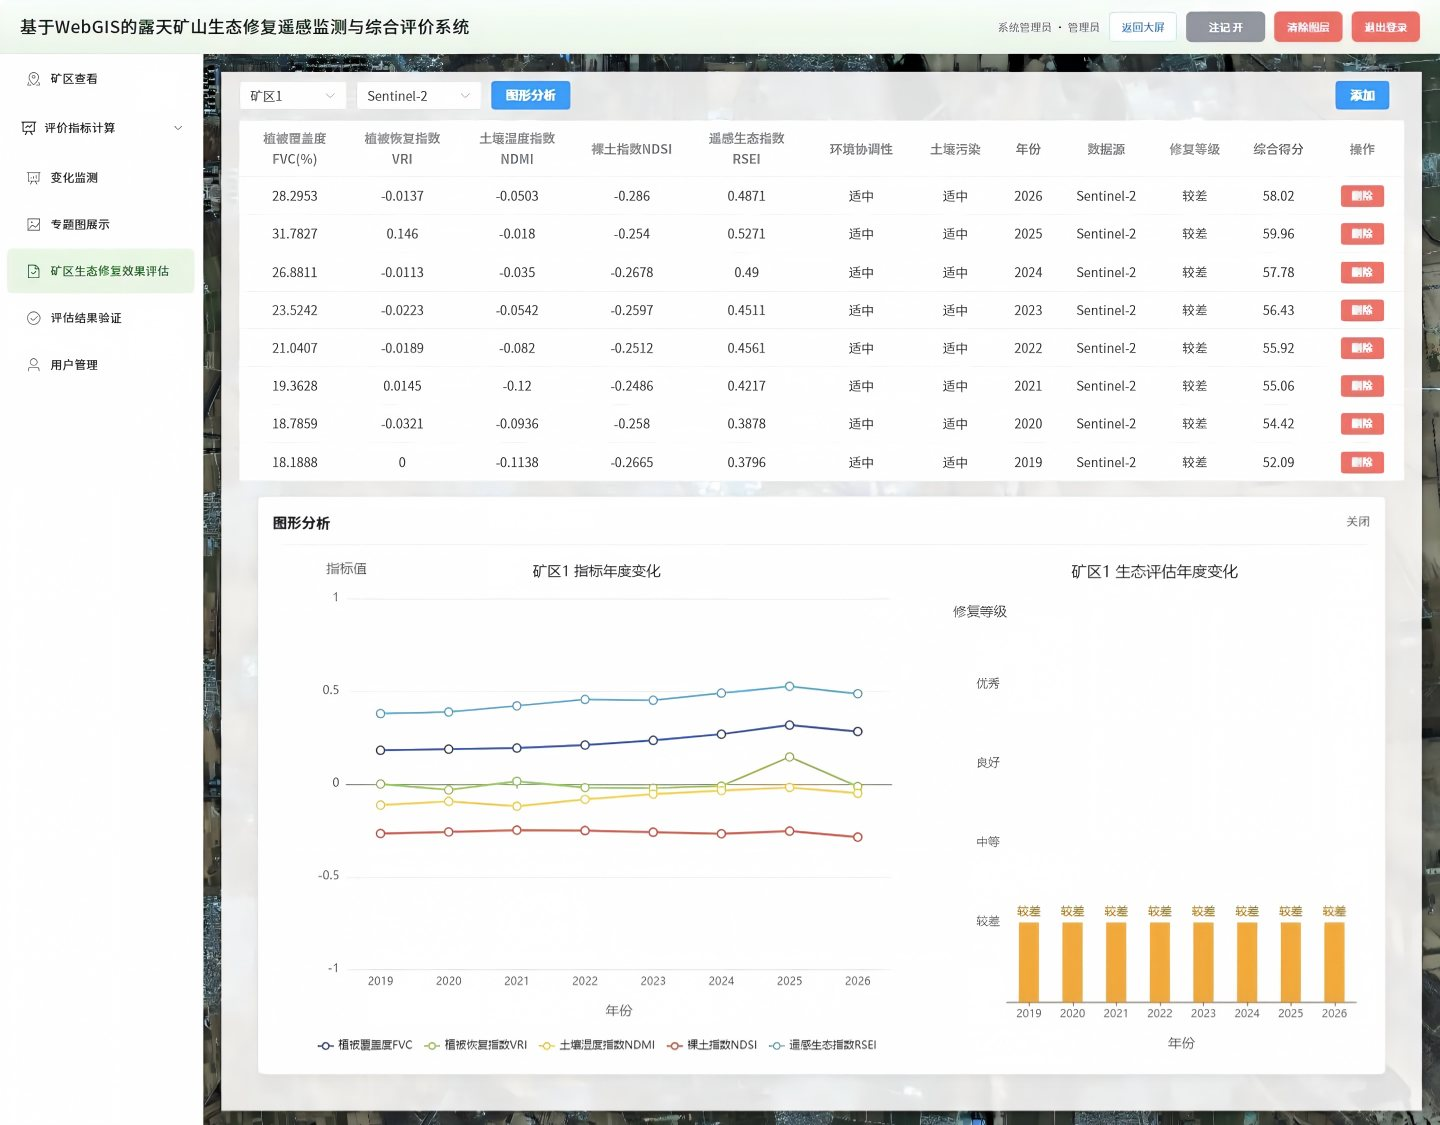
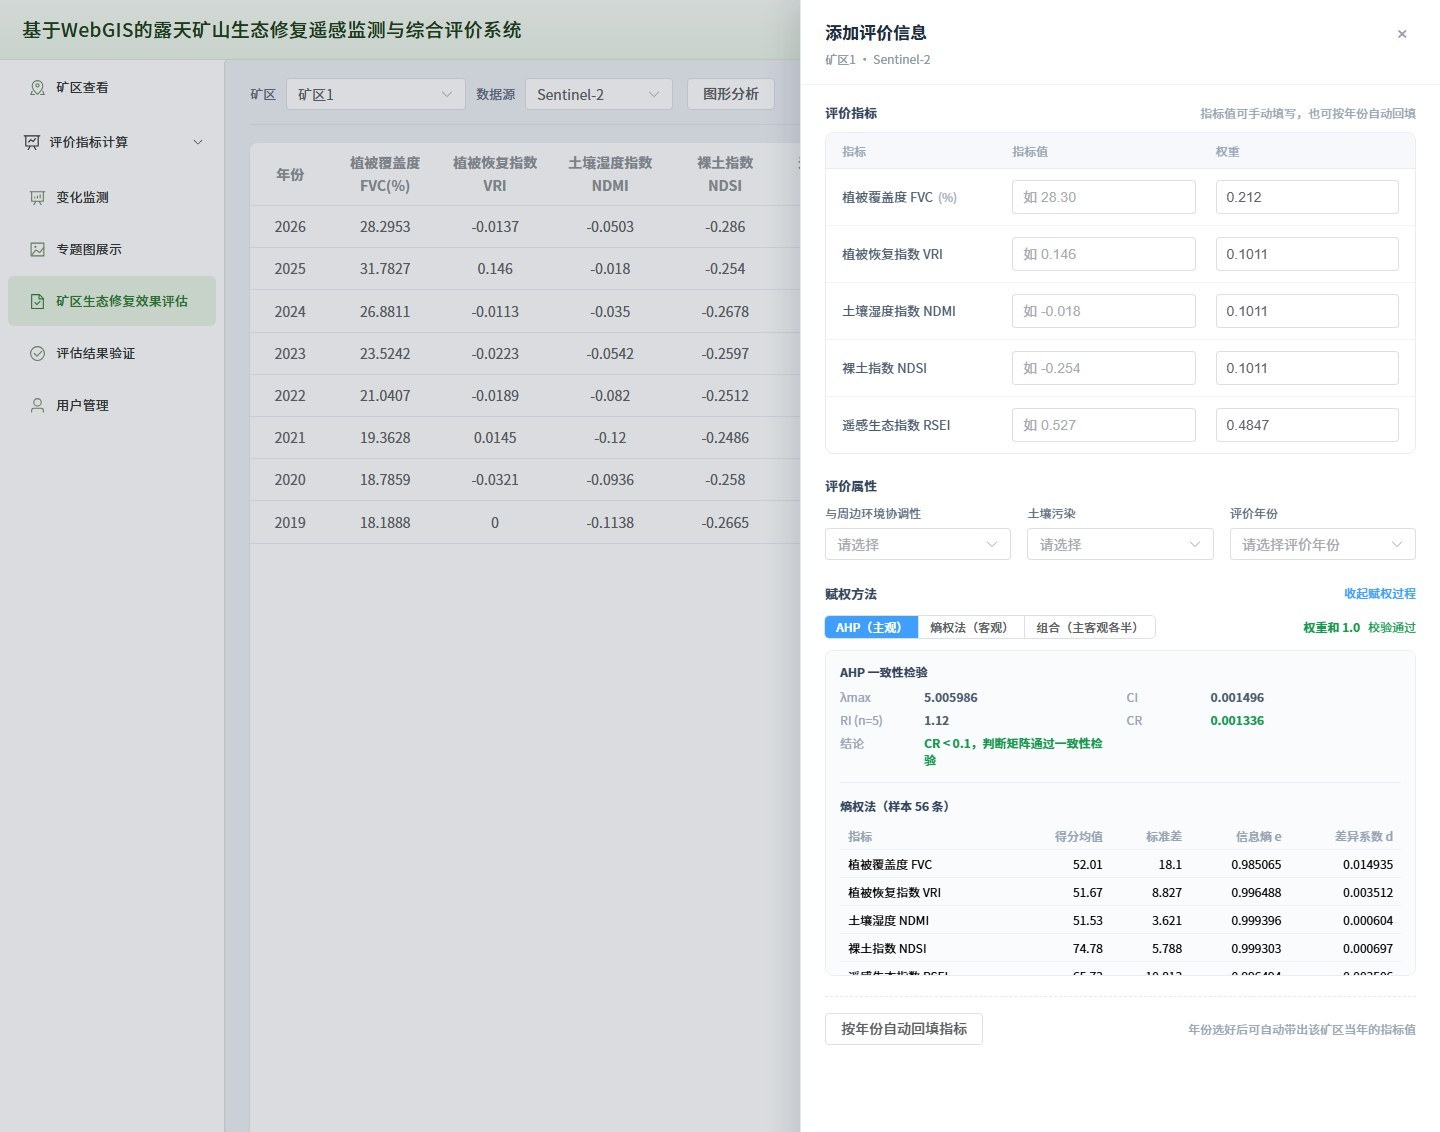
docs: 更新评估与验证截图

diff --git a/README.md b/README.md
@@ -107,11 +107,19 @@ npm run build
 
 管理评价记录，展示五项指标、环境协调性、土壤污染、年份、修复等级与综合得分；点击「图形分析」可展开指标年度变化曲线与等级柱状图。
 
+指标权重支持三种赋权方法，可在录入时切换并查看完整过程量：
+
+- **AHP（主观）**：Saaty 1-9 判断矩阵，输出 λmax、CI、RI、CR，并判断是否通过一致性检验；
+- **熵权法（客观）**：按各指标在样本上的区分度定权，列出均值、标准差、信息熵与差异系数；
+- **组合（主客观各半）**：`w = α·w_AHP + (1-α)·w_熵权`，α 默认 0.5，可调。
+
 ![矿区生态修复效果评估](docs/screenshots/evaluate-analysis.jpg)
 
 ### 评估结果验证
 
 对评价结果做自洽性核查、等级面积与年际转移统计、权重与阈值敏感性分析。
+
+下图为敏感性分析：单个权重上下浮动 20%、分级阈值整体平移，以及三种赋权方法对同一批记录的结论差异对比。
 
 ![评估结果验证](docs/screenshots/audit.jpg)
 
@@ -127,7 +135,7 @@ npm run build
 
 ## 演示账号
 
-系统内置管理员账号 `admin`，初始口令见 `src/assets/userStore.js` 中 `DEFAULT_PASSWORD` 的拼接结果；正式使用前请在「用户管理」中修改。
+系统内置管理员账号 `admin`。口令由后端 `backend/data/users.json` 以 bcrypt 哈希保存，前端不再内置任何默认口令；首次部署请按后端说明初始化账号，正式使用前在「用户管理」中修改。
 
 ## 联系与反馈
 
